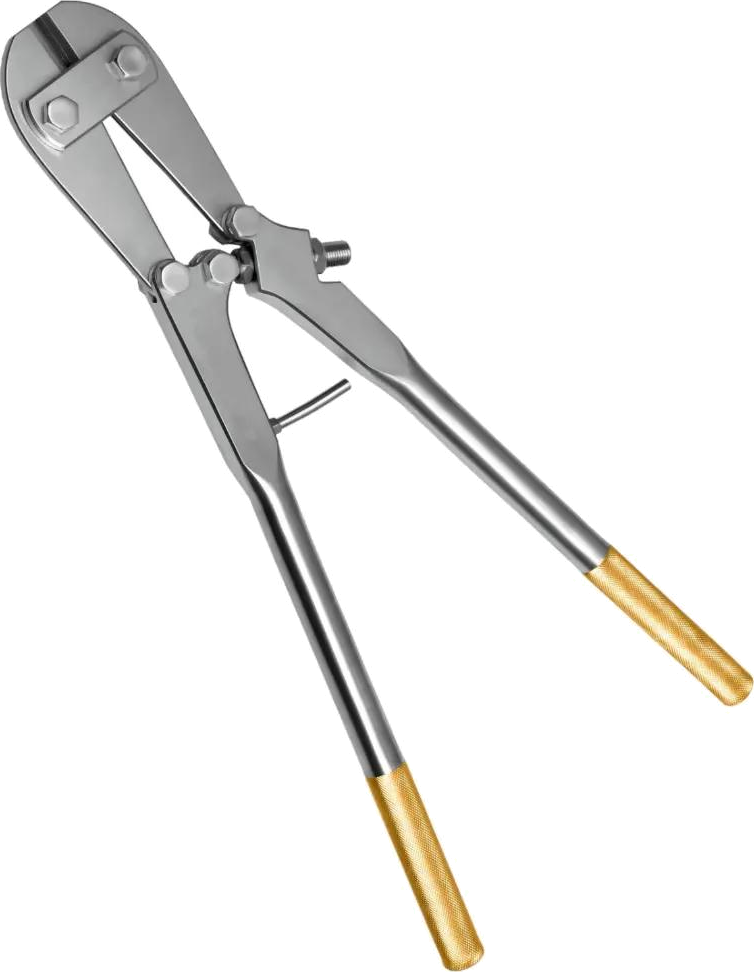
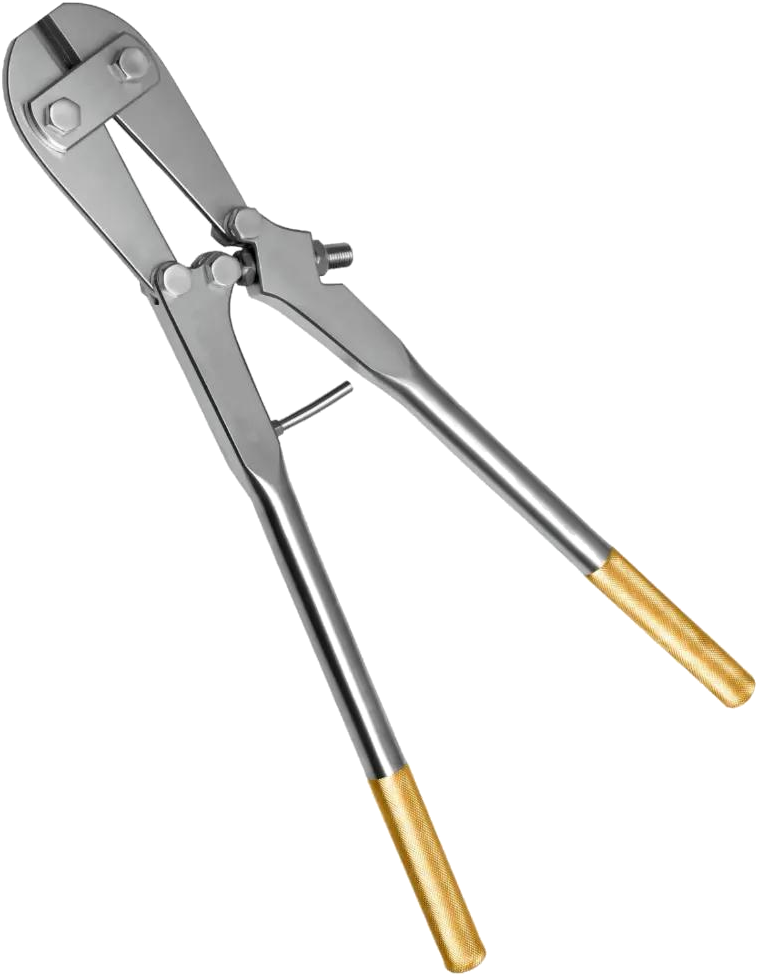
Clean hero + editorial cutouts (drop shadow + enclosed white removed); drop Featured tag
Regenerated the hero retractor and editorial cutter cutouts to remove the
retained drop-shadow (white halo on the grey hero) and the enclosed white
area between the cutter handles (white triangle on the black band). Removed
the Featured badge from the hero.

diff --git a/web/components/hero.tsx b/web/components/hero.tsx
@@ -90,9 +90,6 @@ export default function Hero({ hero }: { hero?: Hero }) {
                   className="h-auto w-[82vw] max-w-[400px] drop-shadow-[0_30px_45px_rgba(11,11,11,0.22)] sm:w-[420px] lg:max-w-[520px]"
                 />
               </motion.div>
-              <span className="absolute -left-2 top-6 rounded-sm bg-ink px-2.5 py-1 text-[0.62rem] font-bold uppercase tracking-wide text-bg">
-                Featured
-              </span>
             </Link>
           </motion.div>
         )}
